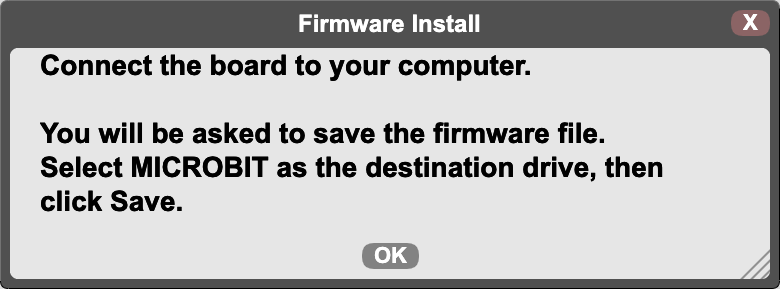
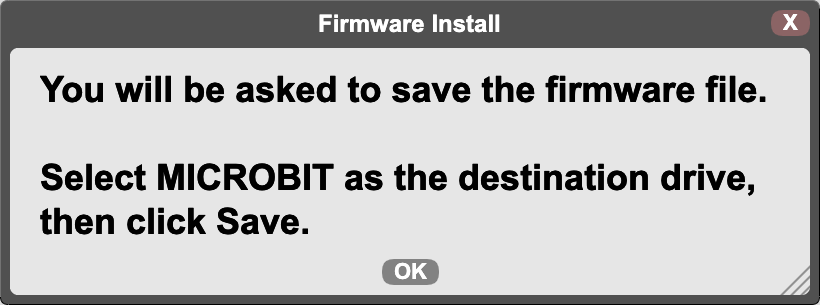
Update install instructions for micro:bit and Calliope

diff --git a/data/markdown/setup-microbit.md b/data/markdown/setup-microbit.md
@@ -22,13 +22,17 @@ First, select your board type from the menu.
 
 <img src="assets/img/md/get-started/select-microbit.png" width="180">
 
-You'll be asked to select the USB drive for the board in the browser's file save dialog.
+A dialog box will appear. Read the instructions, then click **OK**.
 
-<img src="assets/img/md/get-started/firmware-install-instructions-microbit.png" width="400">
+<img src="assets/img/md/get-started/firmware-install-instructions-microbit.png" width="320">
 
-Follow the instructions to save the firmware file on your board.
+In the browser's save dialog, select the **MICROBIT** drive, then click the **Save** button.
 
-The yellow light will flicker, stop, then flicker again briefly as the board re-connects
-itself as a USB drive.
-Wait until that entire sequence is complete—about ten seconds—then
-click the USB icon to connect to the board.
+<img src="assets/img/md/get-started/firmware-save-dialog-microbit.png" width="500">
+
+You will see the orange light on the board flicker several times as the firmware is installed.
+At the same time, you will see a progress indicator on the screen.
+
+<img src="assets/img/md/get-started/firmware-progress.png" width="320">
+
+When it is done, click the USB icon to connect to the board.

diff --git a/data/markdown/setup-calliope.md b/data/markdown/setup-calliope.md
@@ -20,12 +20,17 @@ First, select your board type from the menu.
 
 <img src="assets/img/md/get-started/select-calliope.png" width="180">
 
-You'll be asked to select the USB drive for the board in the browser's file save dialog.
+A dialog box will appear. Read the instructions, then click **OK**.
 
-<img src="assets/img/md/get-started/firmware-install-instructions-microbit.png" width="400">
+<img src="assets/img/md/get-started/firmware-install-instructions-calliope.png" width="320">
 
-Follow the instructions to save the firmware file on your board.
+In the browser's save dialog, select the **MINI** drive, then click the **Save** button.
 
-The yellow light will flicker, stop, then flicker again briefly as the board re-connects
-itself as a USB drive. Wait until that entire sequence is complete—about ten seconds—then
-click the USB icon to connect to the board.
+<img src="assets/img/md/get-started/firmware-save-dialog-calliope.png" width="500">
+
+You will see the orange light on the board flicker several times as the firmware is installed.
+At the same time, you will see a progress indicator on the screen.
+
+<img src="assets/img/md/get-started/firmware-progress.png" width="320">
+
+When it is done, click the USB icon to connect to the board.

diff --git a/data/markdown/run-ide-browser.md b/data/markdown/run-ide-browser.md
@@ -7,7 +7,7 @@ Plug in your board, then click the USB icon.
 
 <img src="assets/img/md/get-started/usb-icon.png" width="50">
 
-Select your board from the browser dialog.
+Select your board from the browser dialog, then click **Connect**.
 
 <img src="assets/img/md/get-started/browser-connect-dialog.png" width="400">
 
